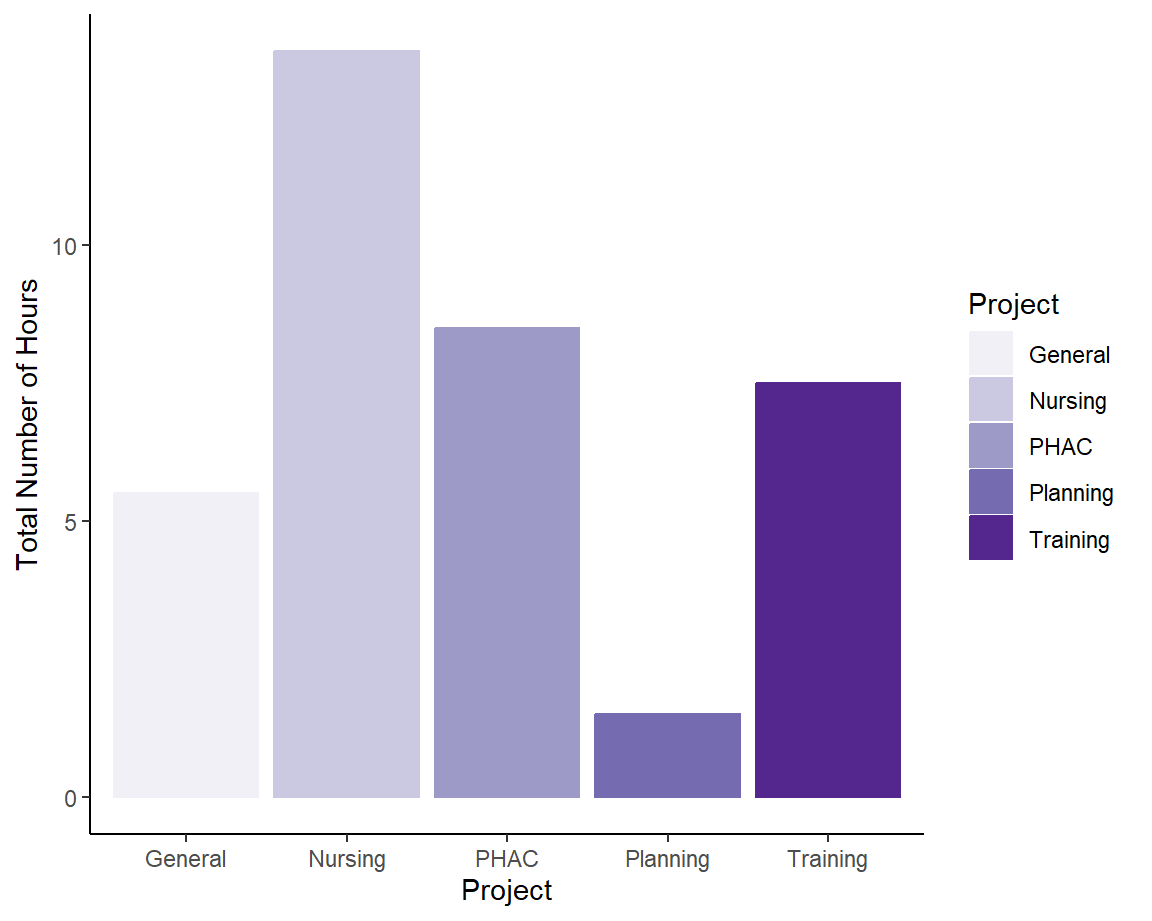
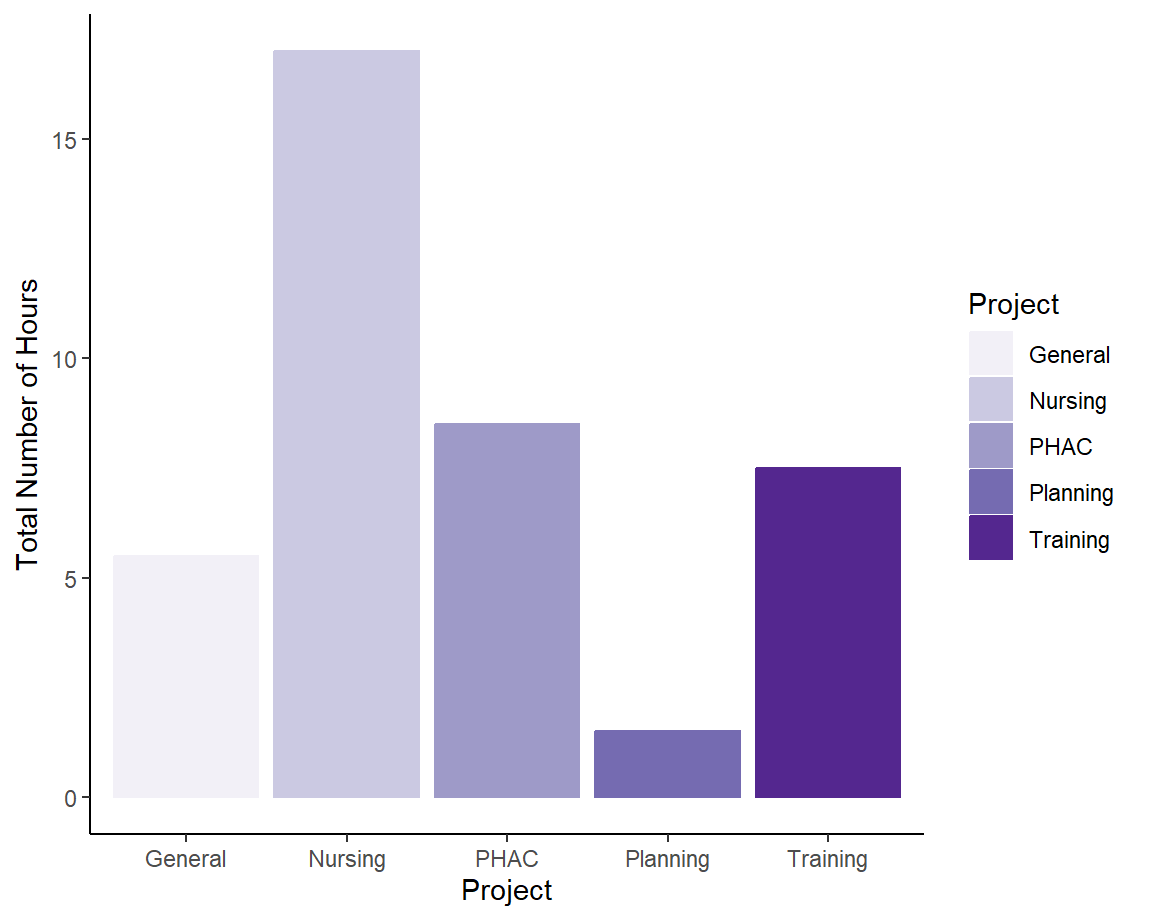
friday

diff --git a/docs/index.html b/docs/index.html
@@ -1938,6 +1938,22 @@ notes</td>
 &amp; II, drafing invitation emails</td>
 <td align="right">3.0</td>
 </tr>
+<tr class="odd">
+<td align="left">2024-07-19</td>
+<td align="left">Friday</td>
+<td align="left">Nursing</td>
+<td align="left">Downloading &amp; reading papers about qualitative
+analysis</td>
+<td align="right">2.0</td>
+</tr>
+<tr class="even">
+<td align="left">2024-07-19</td>
+<td align="left">Friday</td>
+<td align="left">Nursing</td>
+<td align="left">Editing both QUAL and QUANT surveys to make clear
+points of overlap.</td>
+<td align="right">1.5</td>
+</tr>
 </tbody>
 </table>
 </div>
@@ -1996,6 +2012,20 @@ class="section level3">
 </tr>
 </thead>
 <tbody>
+<tr class="odd">
+<td align="left">2024-07-19</td>
+<td align="left">Nursing</td>
+<td align="left">Downloading &amp; reading papers about qualitative
+analysis</td>
+<td align="right">2.0</td>
+</tr>
+<tr class="even">
+<td align="left">2024-07-19</td>
+<td align="left">Nursing</td>
+<td align="left">Editing both QUAL and QUANT surveys to make clear
+points of overlap.</td>
+<td align="right">1.5</td>
+</tr>
 <tr class="odd">
 <td align="left">2024-07-17</td>
 <td align="left">Nursing</td>
